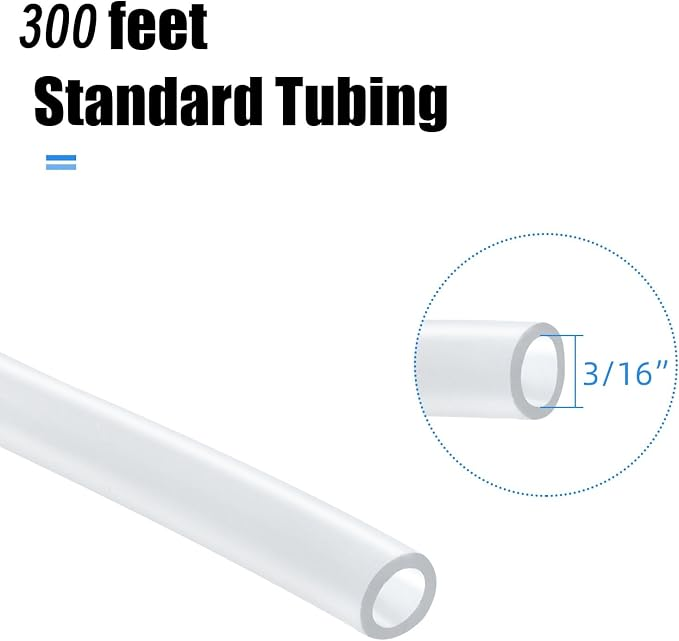
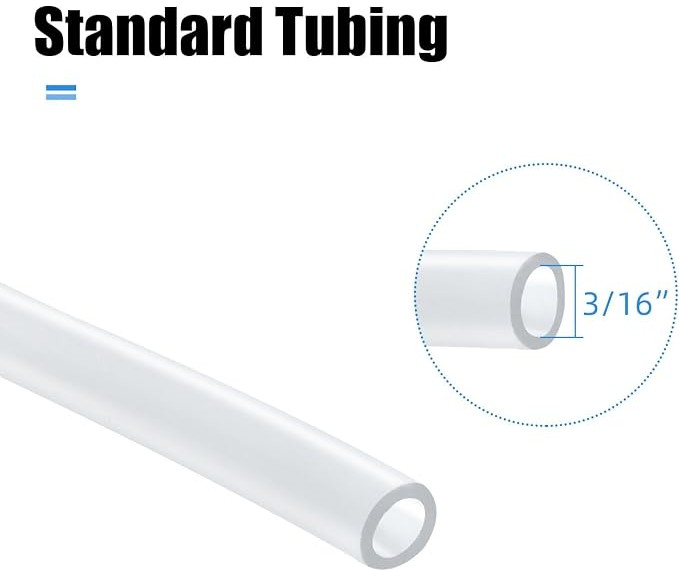
add real images to painted fire red and bloody mary carousels

diff --git a/shop.html b/shop.html
@@ -252,7 +252,7 @@
         </div>
 
         <div class="tile reveal" data-cat="shrimp">
-          <div class="tile-media" style="padding:0;overflow:hidden;"><img src="shop/sketch-painted-fire-red-cherry-shrimp.jpg" alt="Painted Fire Red Cherry Shrimp" class="ci" style="position:absolute;inset:0;width:100%;height:100%;object-fit:contain;display:block;opacity:1;transition:opacity 0.3s;" data-index="0" /></div>
+          <div class="tile-media cr" style="position:relative;"><img src="shop/sketch-painted-fire-red-cherry-shrimp.jpg" alt="Painted Fire Red Cherry Shrimp" class="ci" style="position:absolute;inset:0;width:100%;height:100%;object-fit:contain;display:block;opacity:1;transition:opacity 0.3s;" data-index="0" /><img src="shop/painted-fire-red-cherry-shrimp.jpg" alt="Painted Fire Red Cherry Shrimp" class="ci" style="position:absolute;inset:0;width:100%;height:100%;object-fit:contain;display:block;opacity:0;transition:opacity 0.3s;" data-index="1" /><button class="cb cb-p" onclick="cPrev(this)">&#8249;</button><button class="cb cb-n" onclick="cNext(this)">&#8250;</button><div class="cds"><span class="cd cd-a" data-index="0"></span><span class="cd" data-index="1"></span></div></div>
           <div class="tile-body">
             <span class="tag shrimp">Shrimp · Painted Fire Red</span>
             <h3>Painted Fire Red Cherry Shrimp</h3>
@@ -262,7 +262,7 @@
         </div>
 
         <div class="tile reveal" data-cat="shrimp">
-          <div class="tile-media" style="padding:0;overflow:hidden;"><img src="shop/sketch-bloody-mary-cherry-shrimp.jpg" alt="Bloody Mary Cherry Shrimp" class="ci" style="position:absolute;inset:0;width:100%;height:100%;object-fit:contain;display:block;opacity:1;transition:opacity 0.3s;" data-index="0" /></div>
+          <div class="tile-media cr" style="position:relative;"><img src="shop/sketch-bloody-mary-cherry-shrimp.jpg" alt="Bloody Mary Cherry Shrimp" class="ci" style="position:absolute;inset:0;width:100%;height:100%;object-fit:contain;display:block;opacity:1;transition:opacity 0.3s;" data-index="0" /><img src="shop/bloody-mary-cherry-shrimp.jpg" alt="Bloody Mary Cherry Shrimp" class="ci" style="position:absolute;inset:0;width:100%;height:100%;object-fit:contain;display:block;opacity:0;transition:opacity 0.3s;" data-index="1" /><button class="cb cb-p" onclick="cPrev(this)">&#8249;</button><button class="cb cb-n" onclick="cNext(this)">&#8250;</button><div class="cds"><span class="cd cd-a" data-index="0"></span><span class="cd" data-index="1"></span></div></div>
           <div class="tile-body">
             <span class="tag shrimp">Shrimp · Bloody Mary</span>
             <h3>Bloody Mary Cherry Shrimp</h3>
@@ -392,7 +392,7 @@
         </div>
 
         <div class="tile reveal" data-cat="equipment">
-          <div class="tile-media" style="padding:0;overflow:hidden;"><img src="shop/sketch-aquarium-net.jpg" alt="Aquarium Net" class="ci" style="position:absolute;inset:0;width:100%;height:100%;object-fit:contain;display:block;opacity:1;transition:opacity 0.3s;" data-index="0" /></div>
+          <div class="tile-media cr" style="position:relative;"><img src="shop/sketch-aquarium-net.jpg" alt="Aquarium Net" class="ci" style="position:absolute;inset:0;width:100%;height:100%;object-fit:contain;display:block;opacity:1;transition:opacity 0.3s;" data-index="0" /><img src="shop/aquarium-net.jpg" alt="Aquarium Net" class="ci" style="position:absolute;inset:0;width:100%;height:100%;object-fit:contain;display:block;opacity:0;transition:opacity 0.3s;" data-index="1" /><button class="cb cb-p" onclick="cPrev(this)">&#8249;</button><button class="cb cb-n" onclick="cNext(this)">&#8250;</button><div class="cds"><span class="cd cd-a" data-index="0"></span><span class="cd" data-index="1"></span></div></div>
           <div class="tile-body">
             <span class="tag equipment">Equipment</span>
             <h3>Aquarium Net</h3>
@@ -402,7 +402,7 @@
         </div>
 
         <div class="tile reveal" data-cat="equipment">
-          <div class="tile-media" style="padding:0;overflow:hidden;"><img src="shop/sketch-nano-heater.jpg" alt="Nano Heater" class="ci" style="position:absolute;inset:0;width:100%;height:100%;object-fit:contain;display:block;opacity:1;transition:opacity 0.3s;" data-index="0" /></div>
+          <div class="tile-media cr" style="position:relative;"><img src="shop/sketch-nano-heater.jpg" alt="Nano Heater" class="ci" style="position:absolute;inset:0;width:100%;height:100%;object-fit:contain;display:block;opacity:1;transition:opacity 0.3s;" data-index="0" /><img src="shop/nano-heater.jpg" alt="Nano Heater" class="ci" style="position:absolute;inset:0;width:100%;height:100%;object-fit:contain;display:block;opacity:0;transition:opacity 0.3s;" data-index="1" /><button class="cb cb-p" onclick="cPrev(this)">&#8249;</button><button class="cb cb-n" onclick="cNext(this)">&#8250;</button><div class="cds"><span class="cd cd-a" data-index="0"></span><span class="cd" data-index="1"></span></div></div>
           <div class="tile-body">
             <span class="tag equipment">Equipment</span>
             <h3>Nano Heater</h3>